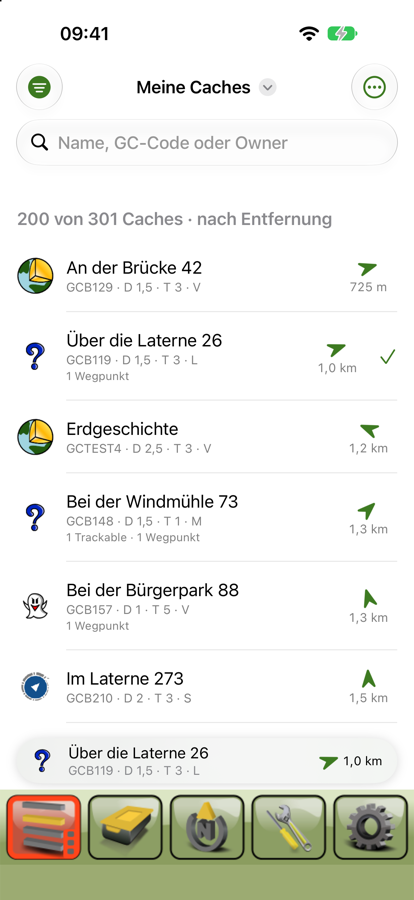
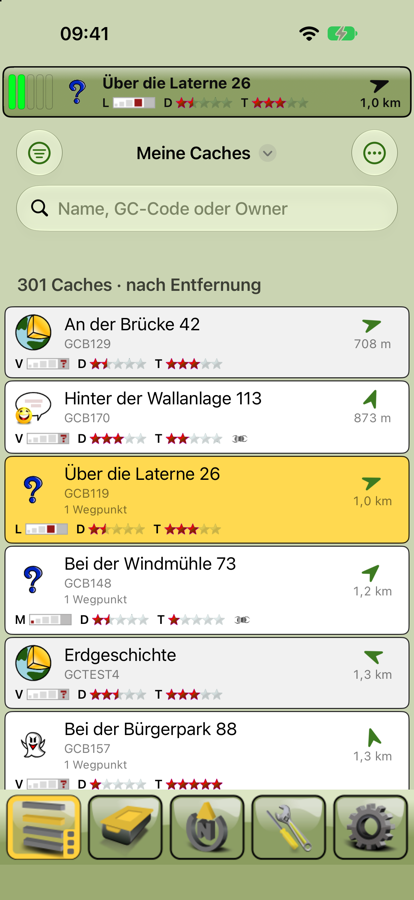
Add aligning the map to the compass like Cachebox
Map menu and layers menu get Cachebox's checkable "AlignToCompass"
entry ("Nach Kompass ausrichten"): the map turns with the heading
(compass when standing, GPS course when moving) so the own arrow points
up, in GPS and Free mode. While on, the rotation gesture and MapKit's
compass button are off; switching it off turns the map back to north.
The setting is kept in UserDefaults (map.alignToCompass).

Website: check off "Karte nach Kompass ausrichten".

Manual: new sections for map rotation and creating waypoints with the
coordinate input, a picture of the pulled-down slider, and all
screenshots retaken with the bar at the top, green menus and zoom
buttons.

diff --git a/App/iCacheBox/MapsforgeMapView.swift b/App/iCacheBox/MapsforgeMapView.swift
@@ -59,6 +59,8 @@ struct MapsforgeMapView: UIViewRepresentable {
     var target: Coordinate?
     /// GPS mode: the map keeps the own position in the middle.
     var followsPosition = false
+    /// The map turns with the heading of the own position (Cachebox "Nach Kompass ausrichten").
+    var alignsToHeading = false
     /// Parts of the view covered by the info panel, the buttons and the bars; the edge arrows, the compass, the
     /// scale and the zoom buttons stay inside the rest.
     var chromeInsets = UIEdgeInsets.zero
@@ -115,6 +117,7 @@ struct MapsforgeMapView: UIViewRepresentable {
         c.onTargetArrow = onTargetArrow
         // before the moves below: a jump caused by them must not be taken back by the GPS mode just left
         c.setFollowing(followsPosition)
+        c.setAligning(alignsToHeading, on: mapView)
         if mapView.chromeInsets != chromeInsets { mapView.chromeInsets = chromeInsets }
         if c.overlay?.renderer !== renderer {
             // new map/theme/style: replace the tile overlay (MapKit has no API to flush its tile cache)
@@ -147,6 +150,7 @@ struct MapsforgeMapView: UIViewRepresentable {
         c.observe(location, on: mapView)
         c.target = target
         c.followPosition(on: mapView)
+        c.alignToHeading(on: mapView)
         c.refreshPositionViews(on: mapView)
     }
 
@@ -169,6 +173,7 @@ struct MapsforgeMapView: UIViewRepresentable {
         private var position: OwnPosition?
         private var positionAnnotation: OwnPositionAnnotation?
         private var followsPosition = false
+        private var alignsToHeading = false
         /// Position the map was last centered on in GPS mode.
         private var followed: Coordinate?
         private var lastCenter: CLLocationCoordinate2D?
@@ -312,6 +317,7 @@ struct MapsforgeMapView: UIViewRepresentable {
             let moved = next?.coordinate != position?.coordinate
             updatePosition(next, on: mapView)
             followPosition(on: mapView)
+            alignToHeading(on: mapView)
             refreshPositionViews(on: mapView)
             if moved, let coordinate = next?.coordinate { onPositionChange(coordinate) }
         }
@@ -347,6 +353,7 @@ struct MapsforgeMapView: UIViewRepresentable {
         func cameraApplied(on mapView: CacheMapView) {
             followed = nil
             followPosition(on: mapView)
+            alignToHeading(on: mapView)
         }
 
         /// GPS mode (Cachebox `MapState.GPS`): the map centers on every new position, keeping the zoom. Without
@@ -356,6 +363,39 @@ struct MapsforgeMapView: UIViewRepresentable {
                   !mapView.isSettingCamera else { return }
             followed = position.coordinate
             mapView.setCenter(position.clCoordinate, animated: false)
+        }
+
+        /// Switches "Nach Kompass ausrichten" on or off. While on, the heading turns the map, so the rotation
+        /// gesture and MapKit's compass button (which would turn it back to north) are off; the compass rose in the
+        /// info panel still shows north. Switched off, the map turns back to north (Cachebox: `mapHeading = 0`).
+        func setAligning(_ aligns: Bool, on mapView: CacheMapView) {
+            guard aligns != alignsToHeading else { return }
+            alignsToHeading = aligns
+            mapView.isRotateEnabled = !aligns
+            mapView.showsCompassButton = !aligns
+            if aligns {
+                alignToHeading(on: mapView)
+            } else if mapView.camera.heading != 0, !mapView.isSettingCamera {
+                let camera = mapView.camera.copy() as! MKMapCamera
+                camera.heading = 0
+                mapView.setCamera(camera, animated: true)
+            }
+        }
+
+        /// Turns the map so that the heading points up (Cachebox `MapViewBase.orientationChanged`: the camera
+        /// rotates by `mapHeading`, the position arrow then points up). Rotates around the middle of the map, also
+        /// in Free mode like Cachebox. Without a heading the map keeps its last rotation. Not animated: the compass
+        /// sends small steps (`headingFilter` 2°), and MapKit's animation would lag behind.
+        func alignToHeading(on mapView: CacheMapView) {
+            guard alignsToHeading, let heading = position?.heading, mapView.bounds.width > 0,
+                  !mapView.isSettingCamera else { return }
+            let current = mapView.camera.heading
+            var delta = (heading - current).truncatingRemainder(dividingBy: 360)
+            if delta < 0 { delta += 360 }
+            guard min(delta, 360 - delta) >= 0.5 else { return }
+            let camera = mapView.camera.copy() as! MKMapCamera
+            camera.heading = heading
+            mapView.setCamera(camera, animated: false)
         }
 
         /// Accuracy circle radius in points (Cachebox `pixelsPerMeter * accuracy`).
@@ -535,6 +575,10 @@ final class CacheMapView: MKMapView {
     private lazy var compassButton = MKCompassButton(mapView: self)
     private lazy var scaleView = MKScaleView(mapView: self)
     private let zoomButtons = ZoomButtonsView()
+    /// MapKit's compass button, shown while the map is rotated; hidden while the map follows the heading.
+    var showsCompassButton = true {
+        didSet { compassButton.compassVisibility = showsCompassButton ? .adaptive : .hidden }
+    }
     /// Called after a position set with `setCenter(_:zoomLevel:)` has been applied.
     var onCameraApplied: () -> Void = {}
     /// Parts covered by SwiftUI controls and bars.

diff --git a/App/iCacheBox/ContentView.swift b/App/iCacheBox/ContentView.swift
@@ -29,7 +29,8 @@ struct ContentView: View {
             if let renderer = model.renderer {
                 MapsforgeMapView(renderer: renderer, center: model.center, markers: markers,
                                  location: state.location, target: state.selectedCache?.target,
-                                 followsPosition: mapState == .gps, chromeInsets: chromeInsets,
+                                 followsPosition: mapState == .gps, alignsToHeading: model.alignsToCompass,
+                                 chromeInsets: chromeInsets,
                                  onSelect: { state.select($0, show: .map, onMap: true) },
                                  onShowDetails: { state.select($0) },
                                  onCameraChange: { model.cameraChanged($0) },
@@ -237,6 +238,11 @@ final class MapModel {
     @ObservationIgnored var visibleCenter: Coordinate?
     /// Short message over the map, e.g. when no map covers the selected cache; hidden after a few seconds.
     var notice: String?
+    /// The map turns with the heading, so that the direction the user looks or moves points up (Cachebox
+    /// `MapViewBase.setAlignToCompass`, setting `MapNorthOriented` inverted, default off).
+    var alignsToCompass = UserDefaults.standard.bool(forKey: Keys.alignToCompass) {
+        didSet { UserDefaults.standard.set(alignsToCompass, forKey: Keys.alignToCompass) }
+    }
 
     let language = Locale.current.language.languageCode?.identifier ?? "en"
     private var generation = 0
@@ -261,6 +267,7 @@ final class MapModel {
         static let theme = "map.theme"
         static let style = "map.style"
         static let overlays = "map.overlays"
+        static let alignToCompass = "map.alignToCompass"
     }
 
     /// Starts with the map, theme, style and overlays of the last session (Cachebox `currentMapLayer`, theme and

diff --git a/App/iCacheBox/MainActions.swift b/App/iCacheBox/MainActions.swift
@@ -173,7 +173,8 @@ extension AppState {
         ]
     }
 
-    /// Map, theme, style and overlays (Cachebox `ShowMap.getContextMenu`: Layer, Renderthemes, overlays).
+    /// Map, theme, style and overlays, map rotation and a waypoint at the map center (Cachebox
+    /// `ShowMap.getContextMenu`: Layer, Renderthemes, overlays, AlignToCompass, CenterWP).
     var mapEntries: [MenuEntry] {
         let model = map
         var entries = [
@@ -203,9 +204,11 @@ extension AppState {
                 }))
             }
         }
-        // Cachebox `ShowMap.getContextMenu` › "CenterWP"
+        // Cachebox `ShowMap.getContextMenu` › "AlignToCompass", "CenterWP"
         entries += [
             .divider("waypoint"),
+            MenuEntry("Nach Kompass ausrichten", systemImage: "location.north.line", isChecked: model.alignsToCompass,
+                      runsImmediately: true) { model.alignsToCompass.toggle() },
             MenuEntry("WP vom Kartenmittelpunkt", systemImage: "mappin.and.ellipse", isDisabled: selectedCache == nil) {
                 [weak self] in self?.addWaypointAtMapCenter()
             },

diff --git a/Website/src/main/java/de/cachebox/website/features/FeatureCatalog.java b/Website/src/main/java/de/cachebox/website/features/FeatureCatalog.java
@@ -63,7 +63,7 @@ public final class FeatureCatalog {
                     new Feature("karte-21", "Infofeld mit Kompass, Entfernung zum Cache, Tempo und Koordinaten", true),
                     new Feature("karte-22", "Karte zoomen und Maßstab anzeigen", true),
                     new Feature("karte-23", "Gewählten Cache auf der Karte zeigen", true),
-                    new Feature("karte-24", "Karte nach Kompass ausrichten", false),
+                    new Feature("karte-24", "Karte nach Kompass ausrichten", true),
                     new Feature("karte-25", "Wegpunkt in der Kartenmitte anlegen", true),
                     new Feature("karte-26", "Ort oder Adresse suchen und auf der Karte anzeigen", false),
                     new Feature("karte-27", "Live-Karte: Caches beim Verschieben über die Geocaching-API nachladen", false),

diff --git a/docs/anleitung/README.md b/docs/anleitung/README.md
@@ -20,6 +20,9 @@ Unten sitzen wie in Cachebox fünf Knöpfe. Jeder gehört zu einem Bereich mit m
 Der gewählte Cache steht oben als Leiste über jeder Ansicht. Ziehst du sie herunter, erscheinen darüber die
 **Zusatzknöpfe** (mehr dazu im Abschnitt „Der gewählte Cache und die Zusatzknöpfe“).
 
+Die Menüs sehen aus wie in Cachebox: ein grüner Kasten mit Titel, die Einträge als helle Felder, ein Häkchen
+vor dem, was eingeschaltet ist. Ein Pfeil `>` rechts öffnet ein Untermenü, `<` oben links führt zurück.
+
 ## Die fünf Knöpfe
 
 ![Menü des Navigations-Knopfs](bilder/menue.png)
@@ -143,6 +146,8 @@ angezeigten Caches aus der Liste. Ein erneuter Import holt sie zurück.
 
 ## Der gewählte Cache und die Zusatzknöpfe
 
+![Leiste heruntergezogen: Zusatzknöpfe und Cache-Info](bilder/slider.png)
+
 Wie in Cachebox gibt es immer einen gewählten Cache, mit dem du gerade unterwegs bist. Er steht oben als Leiste über
 jeder Ansicht:
 
@@ -183,7 +188,7 @@ Menü des Knopfs oder per Wischen (nach rechts Wegpunkte, nach unten Logs):
   Favoritenpunkte, Trackables, die Attribute als Symbole (durchgestrichen = trifft nicht zu, Tippen zeigt den Text)
   und die Beschreibung des Owners. Links in der Beschreibung öffnen Safari.
 - **Wegpunkte:** Der Cache selbst und alle zusätzlichen Wegpunkte mit Typ, Koordinaten, Kommentar und Entfernung.
-  Wegpunkte mit verborgenen Koordinaten sind als solche markiert.
+  Wegpunkte mit verborgenen Koordinaten sind als solche markiert. Eigene Wegpunkte legst du hier an (siehe unten).
 - **Logs:** Die Logs aus der GPX-Datei, die neuesten zuerst.
 - **Spoiler:** Spoilerbilder lädt iCacheBox noch nicht.
 
@@ -192,6 +197,33 @@ außerdem: auf der Karte zeigen, als gefunden markieren, Favorit, **Notiz bearbe
 nächsten Import erhalten bleibt), Koordinaten kopieren, im Browser öffnen und den Cache aus der Liste löschen.
 Hinweis und Notiz erreichst du über den Cache-Knopf auch von jeder anderen Ansicht aus (lange drücken, oder nach links
 wischen für die Notiz).
+
+### Wegpunkte anlegen und ändern
+
+![Wegpunkt anlegen](bilder/wegpunkt.png)
+
+Für Multis und Mysteries legst du wie in Cachebox eigene Wegpunkte an:
+
+- In der Ansicht **Wegpunkte** auf **Wegpunkt hinzufügen** tippen (dasselbe steht unter **⋯** und im Menü des
+  Cache-Knopfs). Der neue Wegpunkt beginnt an der Koordinate des Caches.
+- Auf der **Karte** im Menü **WP vom Kartenmittelpunkt** wählen. Der neue Wegpunkt liegt dann in der Mitte des
+  Kartenausschnitts.
+- **Lange drücken** auf einen Wegpunkt bietet **Anzeigen**, **Ändern** und – bei eigenen Wegpunkten – **Löschen**.
+
+Im Fenster stehen oben der Cache und der gelbe **Koordinaten-Knopf**, darunter der **Typ** (Referenzpunkt, Station,
+Parkplatz, Final …; bei einer Station zusätzlich „Start“), **Titel**, **Beschreibung** und **Hinweis**. Der Titel ist
+anfangs ein neuer Code wie „C0B119“. Langes Drücken auf den Koordinaten-Knopf kopiert die Koordinaten oder fügt
+welche aus der Zwischenablage ein. **OK** speichert, **Abbruch** verwirft.
+
+![Koordinaten eingeben](bilder/koordinaten.png)
+
+**Koordinaten eingeben:** Bei einem neuen Wegpunkt öffnet sich die Eingabe sofort, sonst mit einem Tipp auf den
+Koordinaten-Knopf. Oben wählst du das Format: **Dec** (Grad), **Min** (Grad und Minuten), **Sec** (Grad, Minuten,
+Sekunden) oder **UTM**. Jede Ziffer hat ein eigenes Feld; die grüne Ziffer ist die, die du gerade eingibst. Wie in
+Cachebox beginnt die Eingabe bei den Nachkommastellen der Breite, springt danach zu denen der Länge und dann zu den
+Grad – so tippst du bei einer Station in der Nähe meist nur die letzten Stellen. Ein Tipp auf **N/S** oder **E/W**
+wechselt die Halbkugel, ein Tipp auf eine Ziffer springt dorthin. Bei UTM kommen Ostwert, Nordwert, Zone und der
+Zonenbuchstabe (über die Tastatur) nacheinander.
 
 ## Offline-Karten
 
@@ -205,7 +237,8 @@ nötigen Speicherplatz. Der Download läuft weiter, wenn du die App verlässt; d
 Abspielsymbol setzt ihn fort. Mit der ersten Karte lädt iCacheBox das passende Design „Standard-Design V5“ mit.
 
 **Karte anzeigen:** Der Navigations-Knopf zeigt die **Karte**. Über das Ebenen-Symbol unter dem GPS-Knopf – oder im
-Menü des Navigations-Knopfs, wenn die Karte zu sehen ist – wählst du die Karte, das Theme und den Stil.
+Menü des Navigations-Knopfs, wenn die Karte zu sehen ist – wählst du die Karte, das Theme und den Stil, schaltest
+**Nach Kompass ausrichten** ein (siehe unten) oder legst einen Wegpunkt in der Kartenmitte an.
 Freizeitkarten bekommen automatisch ihr Design.
 
 **Zoomen und Maßstab:** Neben dem Zoomen mit zwei Fingern gibt es wie in Cachebox unten rechts zwei Knöpfe: links
@@ -265,6 +298,21 @@ Free; ein Tipp darauf sagt, wo du die Freigabe erteilst.
 - die **Entfernung** zum gewählten Cache und darunter deine **Geschwindigkeit**,
 - die **Koordinaten** der Kartenmitte. Das Symbol daneben sagt, woher sie kommen: Satellit für deine Position (GPS),
   Karte für die Mitte des Ausschnitts (Free).
+
+### Karte drehen
+
+![Karte nach Kompass ausgerichtet](bilder/karte-gedreht.jpg)
+
+Normalerweise ist Norden oben. Mit **Nach Kompass ausrichten** im Menü der Karte (Navigations-Knopf bei offener
+Karte antippen oder das Ebenen-Symbol) dreht sich die Karte wie in Cachebox mit dir: Was vor dir liegt, ist oben,
+und dein Pfeil zeigt immer nach oben. Die Richtung kommt wie beim Pfeil im Stehen vom Kompass und in Bewegung aus
+GPS. Wo Norden ist, zeigt dann der Kompass im Infofeld. Ein Häkchen im Menü zeigt, dass die Ausrichtung an ist;
+noch einmal antippen dreht die Karte zurück nach Norden. Die Einstellung bleibt auch nach einem Neustart.
+
+Die Drehung funktioniert in GPS und Free; die Karte dreht sich um ihre Mitte. Solange sie eingeschaltet ist, lässt
+sich die Karte nicht mit zwei Fingern drehen. Ohne Ausrichtung kannst du die Karte jederzeit mit zwei Fingern drehen;
+dann erscheint oben rechts eine kleine Kompassnadel, ein Tipp darauf stellt Norden wieder nach oben. Beschriftungen
+drehen sich wie in Cachebox mit der Karte.
 
 **Pfeile am Kartenrand:** Liegt deine Position außerhalb des sichtbaren Ausschnitts, zeigt ein **blauer Pfeil** am
 Rand in ihre Richtung; ein Tipp darauf springt zu dir und schaltet auf GPS. Ein **roter Pfeil** zeigt wie in
@@ -329,7 +377,7 @@ keine Caches. Ist die Datei beschädigt, nennt die Fehlermeldung die Zeile, an d
 
 Im Vergleich zu Cachebox für Android fehlen noch: Laden und Aktualisieren über die Geocaching-API, Spoilerbilder,
 die kleine Karte im Kompass, Wegpunkte als Ziel, die Kartenmodi WP, Lock und Car, Feldnotizen hochladen, Solver,
-Tracks, Trackables, Parkplatz, Foto, Video und Sprachnotiz, Schnell-Entwurf und automatisches Sortieren sowie eine
+Tracks, Trackables, Parkplatz, Foto, Video und Sprachnotiz, Projektion und „Vom GPS“ bei den Koordinaten, Schnell-Entwurf und automatisches Sortieren sowie eine
 eigene Auswahl der Zusatzknöpfe. Diese Einträge stehen in den Menüs und bei den Zusatzknöpfen schon ausgegraut an
 ihrem Platz. Den Tag-/Nachtmodus von Cachebox gibt es nicht; die Knöpfe und der Kompass bleiben auch im
 dunklen Erscheinungsbild hell.

diff --git a/CLAUDE.md b/CLAUDE.md
@@ -84,6 +84,12 @@ und werden durch einen eigenen Swift-Port von Mapsforge gerendert (CoreGraphics,
     `Assets.xcassets/CacheboxMap` = `small1…7`, `star`); `MapsforgeMapView.Coordinator` gleicht Annotationen per ID ab,
     baut die Blase erst bei Auswahl, Tipp neben ein Symbol wählt das nächste (≤ 30 pt). Position: `CacheSummary.target`
     (korrigiert, sonst Final mit Koordinaten – `summaries()` holt `finalCoordinate`), auch für Listen-Entfernungen
+  - Karte nach Kompass ausrichten (Cachebox `MapViewBase.setAlignToCompass`, Kartenmenü „AlignToCompass“):
+    `MapModel.alignsToCompass` (UserDefaults `map.alignToCompass`, Cachebox `MapNorthOriented` umgekehrt), Eintrag in
+    `AppState.mapEntries`; `MapsforgeMapView.alignsToHeading` → `Coordinator.alignToHeading` setzt
+    `camera.heading` = `LocationModel.heading` ohne Animation (ab 0,5° Abweichung), auch in Free, um die Kartenmitte;
+    solange an: Drehgeste und `MKCompassButton` aus (`CacheMapView.showsCompassButton`), aus → animiert nach Norden.
+    Labels drehen mit (wie Cachebox)
   - Letzte Karte: `MapModel` merkt Karte/Theme/Stil/Overlays (Pfad relativ zum Quellordner, UserDefaults `map.*`),
     `MapCamera` Mitte + Kachel-Zoom; `CacheMapView.setCenter(_:zoomLevel:)` korrigiert, weil MapKit
     `setVisibleMapRect` in die Safe Area einpasst (auch `centerCoordinate`/`setCenter` meinen die Mitte der Safe Area)
@@ -234,7 +240,6 @@ Info nur so hoch wie nötig; Zusatzknöpfe nicht konfigurierbar; Statusleisten-B
 schwarz. Im Simulator geprüft (Ziehen in alle Stufen und zurück, Antippen/Langdruck der Leiste, Hinweis/Logs über
 Zusatzknöpfe, Log-Farben, Zoomen bis 6 und 21, schnelle Mehrfach-Tipps, Verblassen, Hoch-/Querformat und zurück,
 hell/dunkel). Nicht geprüft: echtes Gerät, iPad, VoiceOver, sehr schmale Breiten (Zusatzknöpfe scrollen dann).
-Anleitungs-Screenshots zeigen noch die alte Leiste unten.
 
 Zoomen ohne schwarze Kacheln (seit 11.11.2026, wie Cachebox): im Simulator geprüft mit künstlich auf 1,5 s
 verlangsamtem Rendern (rein/raus über 3 Stufen, Theme-Wechsel, Dunkelmodus). Nicht geprüft: Speicher und
@@ -252,6 +257,13 @@ fokussierte Ziffer zusätzlich weiß umrandet, Minuten/Sekunden ≥ 60 und Breit
 Im Simulator geprüft (Min-Eingabe und Sprung, UTM hin/zurück, Zonenbuchstabe, ungültige Eingabe, Typwahl, Start,
 Speichern, Anzeigen, Löschen, Karte zeigt den Wegpunkt, Kartenmittelpunkt, Migration einer Version-1-Liste).
 Nicht geprüft: Einfügen aus der Zwischenablage im Simulator, Querformat, iPad, VoiceOver, echtes Gerät.
+
+Karte nach Kompass ausrichten (seit 13.11.2026, wie Cachebox): Kartenmenü bzw. Ebenen-Menü „Nach Kompass ausrichten“
+mit Häkchen, die Karte dreht mit der Richtung (Kompass im Stehen, GPS-Kurs in Bewegung), Pfeil zeigt nach oben.
+Abweichung: der Car-Modus fehlt weiter (er dreht in Cachebox immer, unter 20 km/h ohne neue Richtung). Im Simulator geprüft (simulierte Route mit GPS-Kurs, Ein/Aus, Zurückdrehen nach Norden, Zoomen,
+Neustart behält die Einstellung). Nicht geprüft: echter Kompass (Zittern, Querformat), echtes Gerät, Akku.
+Anleitung samt allen Screenshots am 13.11.2026 erneuert (Leiste oben, grüne Menüs, Zoom-Knöpfe, neu: Zusatzknöpfe,
+Wegpunkt anlegen, Koordinateneingabe, gedrehte Karte).
 
 Offen (Phase 2): Minikarte im Kompass, Theme-ZIPs direkt lesen, mehrere Karten gleichzeitig (MultiMapDataStore), Hillshading,
 Nachtmodus, Kachel-Cache auf Platte, Kartenrotation mit
